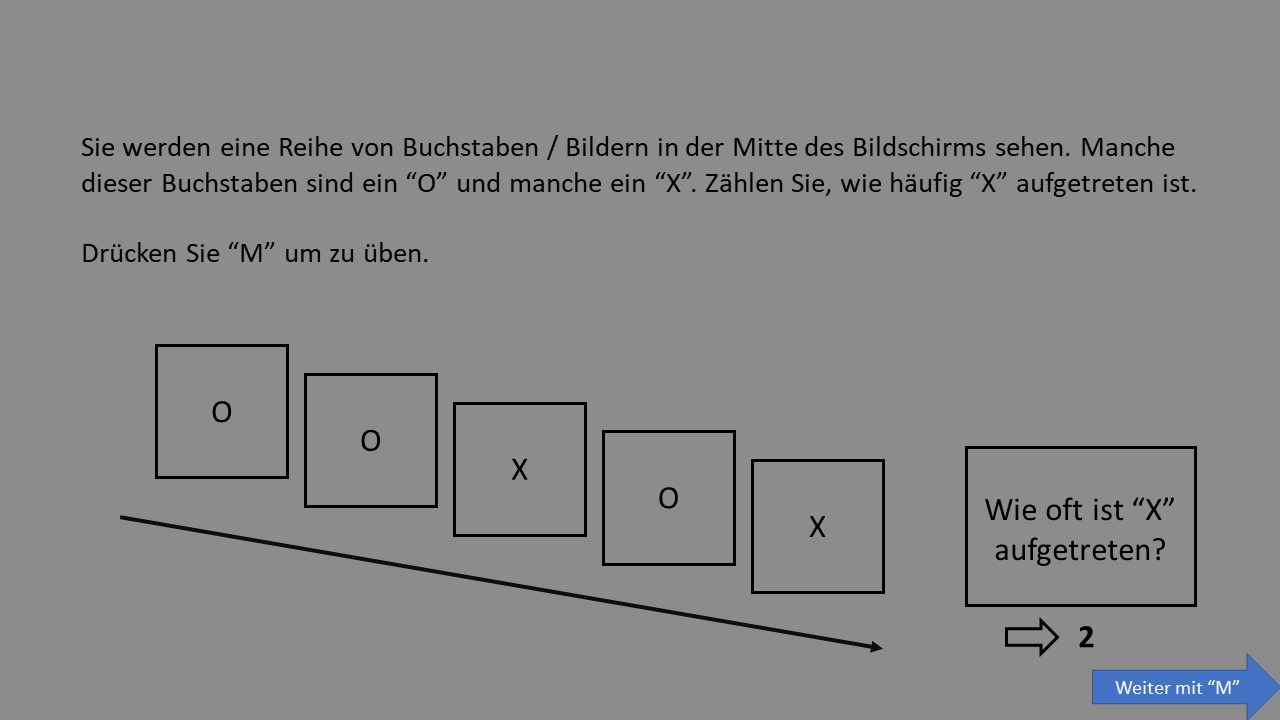
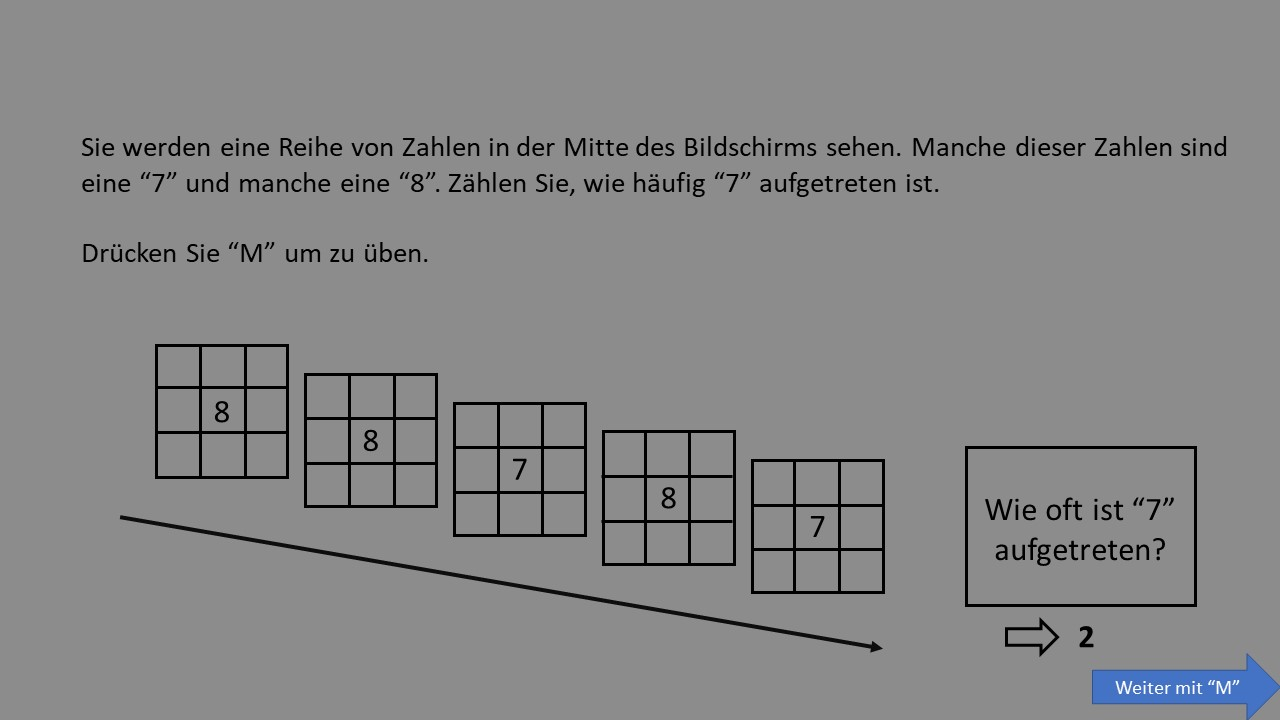
grid and numbers oddball

diff --git a/functions/ScreenGridEmpty.m b/functions/ScreenGridEmpty.m
@@ -1,0 +1,25 @@
+function ScreenGridEmpty(expinfo)
+
+
+    % vertikale Linien von unten nach oben 
+    Screen('DrawLine', expinfo.window ,expinfo.Colors.black , expinfo.xCenter-1.5*expinfo.GridSize, expinfo.yCenter - 1.5*expinfo.GridSize,expinfo.xCenter-1.5*expinfo.GridSize, expinfo.yCenter + 1.5*expinfo.GridSize ,2);
+    Screen('DrawLine', expinfo.window ,expinfo.Colors.black , expinfo.xCenter-0.5*expinfo.GridSize, expinfo.yCenter - 1.5*expinfo.GridSize, expinfo.xCenter-0.5*expinfo.GridSize,expinfo.yCenter + 1.5*expinfo.GridSize,2);
+    Screen('DrawLine', expinfo.window ,expinfo.Colors.black , expinfo.xCenter+0.5*expinfo.GridSize, expinfo.yCenter - 1.5*expinfo.GridSize,  expinfo.xCenter+0.5*expinfo.GridSize, expinfo.yCenter + 1.5*expinfo.GridSize ,2);
+    Screen('DrawLine', expinfo.window ,expinfo.Colors.black , expinfo.xCenter+1.5*expinfo.GridSize, expinfo.yCenter - 1.5*expinfo.GridSize,  expinfo.xCenter+1.5*expinfo.GridSize, expinfo.yCenter + 1.5*expinfo.GridSize ,2);
+    
+    % horizontale Linien von links nach rechts 
+    Screen('DrawLine', expinfo.window ,expinfo.Colors.black ,expinfo.xCenter-1.5*expinfo.GridSize, expinfo.yCenter - 1.5*expinfo.GridSize, expinfo.xCenter+1.5*expinfo.GridSize, expinfo.yCenter - 1.5*expinfo.GridSize ,2);
+    Screen('DrawLine', expinfo.window ,expinfo.Colors.black , expinfo.xCenter-1.5*expinfo.GridSize, expinfo.yCenter - 0.5*expinfo.GridSize, expinfo.xCenter+1.5*expinfo.GridSize,  expinfo.yCenter - 0.5*expinfo.GridSize ,2);
+    Screen('DrawLine', expinfo.window ,expinfo.Colors.black , expinfo.xCenter-1.5*expinfo.GridSize, expinfo.yCenter + 0.5*expinfo.GridSize, expinfo.xCenter+1.5*expinfo.GridSize,  expinfo.yCenter + 0.5*expinfo.GridSize ,2);
+    Screen('DrawLine', expinfo.window ,expinfo.Colors.black, expinfo.xCenter-1.5*expinfo.GridSize, expinfo.yCenter + 1.5*expinfo.GridSize, expinfo.xCenter+1.5*expinfo.GridSize, expinfo.yCenter + 1.5*expinfo.GridSize ,2);
+    
+    end
+    
+    % Screen('Flip', expinfo.window);
+    % Wait for a keystroke and then close the screen
+    % ListenChar(-1);
+    % KbStrokeWait;
+    % sca;
+    % ListenChar(); 
+    
+    

diff --git a/functions/TextCenteredOnPos.m b/functions/TextCenteredOnPos.m
@@ -45,6 +45,18 @@ Screen('glTranslate', expinfo.window, -x, -y, 0);
 % Draw text on screen and Flip Scree
 Screen('DrawText',expinfo.window, text, posX, posY, color);
 
+% vertikale Linien von unten nach oben 
+Screen('DrawLine', expinfo.window ,expinfo.Colors.black , expinfo.xCenter-1.5*expinfo.GridSize, expinfo.yCenter - 1.5*expinfo.GridSize,expinfo.xCenter-1.5*expinfo.GridSize, expinfo.yCenter + 1.5*expinfo.GridSize ,2);
+Screen('DrawLine', expinfo.window ,expinfo.Colors.black , expinfo.xCenter-0.5*expinfo.GridSize, expinfo.yCenter - 1.5*expinfo.GridSize, expinfo.xCenter-0.5*expinfo.GridSize,expinfo.yCenter + 1.5*expinfo.GridSize,2);
+Screen('DrawLine', expinfo.window ,expinfo.Colors.black , expinfo.xCenter+0.5*expinfo.GridSize, expinfo.yCenter - 1.5*expinfo.GridSize,  expinfo.xCenter+0.5*expinfo.GridSize, expinfo.yCenter + 1.5*expinfo.GridSize ,2);
+Screen('DrawLine', expinfo.window ,expinfo.Colors.black , expinfo.xCenter+1.5*expinfo.GridSize, expinfo.yCenter - 1.5*expinfo.GridSize,  expinfo.xCenter+1.5*expinfo.GridSize, expinfo.yCenter + 1.5*expinfo.GridSize ,2);
+
+% horizontale Linien von links nach rechts 
+Screen('DrawLine', expinfo.window ,expinfo.Colors.black ,expinfo.xCenter-1.5*expinfo.GridSize, expinfo.yCenter - 1.5*expinfo.GridSize, expinfo.xCenter+1.5*expinfo.GridSize, expinfo.yCenter - 1.5*expinfo.GridSize ,2);
+Screen('DrawLine', expinfo.window ,expinfo.Colors.black , expinfo.xCenter-1.5*expinfo.GridSize, expinfo.yCenter - 0.5*expinfo.GridSize, expinfo.xCenter+1.5*expinfo.GridSize,  expinfo.yCenter - 0.5*expinfo.GridSize ,2);
+Screen('DrawLine', expinfo.window ,expinfo.Colors.black , expinfo.xCenter-1.5*expinfo.GridSize, expinfo.yCenter + 0.5*expinfo.GridSize, expinfo.xCenter+1.5*expinfo.GridSize,  expinfo.yCenter + 0.5*expinfo.GridSize ,2);
+Screen('DrawLine', expinfo.window ,expinfo.Colors.black, expinfo.xCenter-1.5*expinfo.GridSize, expinfo.yCenter + 1.5*expinfo.GridSize, expinfo.xCenter+1.5*expinfo.GridSize, expinfo.yCenter + 1.5*expinfo.GridSize ,2);
+
 % Tell PTB no more drawing commands will be issued until the next flip
 Screen('DrawingFinished', expinfo.window);
 

diff --git a/functions/ScreenFlip.m b/functions/ScreenFlip.m
@@ -12,6 +12,18 @@ if ~exist('flip','var') || isempty(flip)
     flip = 0;
 end
 
+% vertikale Linien von unten nach oben 
+Screen('DrawLine', expinfo.window ,expinfo.Colors.black , expinfo.xCenter-1.5*expinfo.GridSize, expinfo.yCenter - 1.5*expinfo.GridSize,expinfo.xCenter-1.5*expinfo.GridSize, expinfo.yCenter + 1.5*expinfo.GridSize ,2);
+Screen('DrawLine', expinfo.window ,expinfo.Colors.black , expinfo.xCenter-0.5*expinfo.GridSize, expinfo.yCenter - 1.5*expinfo.GridSize, expinfo.xCenter-0.5*expinfo.GridSize,expinfo.yCenter + 1.5*expinfo.GridSize,2);
+Screen('DrawLine', expinfo.window ,expinfo.Colors.black , expinfo.xCenter+0.5*expinfo.GridSize, expinfo.yCenter - 1.5*expinfo.GridSize,  expinfo.xCenter+0.5*expinfo.GridSize, expinfo.yCenter + 1.5*expinfo.GridSize ,2);
+Screen('DrawLine', expinfo.window ,expinfo.Colors.black , expinfo.xCenter+1.5*expinfo.GridSize, expinfo.yCenter - 1.5*expinfo.GridSize,  expinfo.xCenter+1.5*expinfo.GridSize, expinfo.yCenter + 1.5*expinfo.GridSize ,2);
+
+% horizontale Linien von links nach rechts 
+Screen('DrawLine', expinfo.window ,expinfo.Colors.black ,expinfo.xCenter-1.5*expinfo.GridSize, expinfo.yCenter - 1.5*expinfo.GridSize, expinfo.xCenter+1.5*expinfo.GridSize, expinfo.yCenter - 1.5*expinfo.GridSize ,2);
+Screen('DrawLine', expinfo.window ,expinfo.Colors.black , expinfo.xCenter-1.5*expinfo.GridSize, expinfo.yCenter - 0.5*expinfo.GridSize, expinfo.xCenter+1.5*expinfo.GridSize,  expinfo.yCenter - 0.5*expinfo.GridSize ,2);
+Screen('DrawLine', expinfo.window ,expinfo.Colors.black , expinfo.xCenter-1.5*expinfo.GridSize, expinfo.yCenter + 0.5*expinfo.GridSize, expinfo.xCenter+1.5*expinfo.GridSize,  expinfo.yCenter + 0.5*expinfo.GridSize ,2);
+Screen('DrawLine', expinfo.window ,expinfo.Colors.black, expinfo.xCenter-1.5*expinfo.GridSize, expinfo.yCenter + 1.5*expinfo.GridSize, expinfo.xCenter+1.5*expinfo.GridSize, expinfo.yCenter + 1.5*expinfo.GridSize ,2);
+
 %Screen('Flip',expinfo.window);
 if has_fixation
     Screen('DrawText', expinfo.window ,'+',expinfo.xCenter-0.25*expinfo.GridSize ,expinfo.yCenter-0.50*expinfo.GridSize, expinfo.Colors.black);

diff --git a/functions/clearScreen.m b/functions/clearScreen.m
@@ -10,6 +10,19 @@ end
 
 Screen('FillRect',expinfo.window,expinfo.Colors.bgColor);
 
+% vertikale Linien von unten nach oben 
+Screen('DrawLine', expinfo.window ,expinfo.Colors.black , expinfo.xCenter-1.5*expinfo.GridSize, expinfo.yCenter - 1.5*expinfo.GridSize,expinfo.xCenter-1.5*expinfo.GridSize, expinfo.yCenter + 1.5*expinfo.GridSize ,2);
+Screen('DrawLine', expinfo.window ,expinfo.Colors.black , expinfo.xCenter-0.5*expinfo.GridSize, expinfo.yCenter - 1.5*expinfo.GridSize, expinfo.xCenter-0.5*expinfo.GridSize,expinfo.yCenter + 1.5*expinfo.GridSize,2);
+Screen('DrawLine', expinfo.window ,expinfo.Colors.black , expinfo.xCenter+0.5*expinfo.GridSize, expinfo.yCenter - 1.5*expinfo.GridSize,  expinfo.xCenter+0.5*expinfo.GridSize, expinfo.yCenter + 1.5*expinfo.GridSize ,2);
+Screen('DrawLine', expinfo.window ,expinfo.Colors.black , expinfo.xCenter+1.5*expinfo.GridSize, expinfo.yCenter - 1.5*expinfo.GridSize,  expinfo.xCenter+1.5*expinfo.GridSize, expinfo.yCenter + 1.5*expinfo.GridSize ,2);
+
+% horizontale Linien von links nach rechts 
+Screen('DrawLine', expinfo.window ,expinfo.Colors.black ,expinfo.xCenter-1.5*expinfo.GridSize, expinfo.yCenter - 1.5*expinfo.GridSize, expinfo.xCenter+1.5*expinfo.GridSize, expinfo.yCenter - 1.5*expinfo.GridSize ,2);
+Screen('DrawLine', expinfo.window ,expinfo.Colors.black , expinfo.xCenter-1.5*expinfo.GridSize, expinfo.yCenter - 0.5*expinfo.GridSize, expinfo.xCenter+1.5*expinfo.GridSize,  expinfo.yCenter - 0.5*expinfo.GridSize ,2);
+Screen('DrawLine', expinfo.window ,expinfo.Colors.black , expinfo.xCenter-1.5*expinfo.GridSize, expinfo.yCenter + 0.5*expinfo.GridSize, expinfo.xCenter+1.5*expinfo.GridSize,  expinfo.yCenter + 0.5*expinfo.GridSize ,2);
+Screen('DrawLine', expinfo.window ,expinfo.Colors.black, expinfo.xCenter-1.5*expinfo.GridSize, expinfo.yCenter + 1.5*expinfo.GridSize, expinfo.xCenter+1.5*expinfo.GridSize, expinfo.yCenter + 1.5*expinfo.GridSize ,2);
+
+
 % Tell PTB no more drawing commands will be issued until the next flip
 Screen('DrawingFinished', expinfo.window);
 

diff --git a/functions/getResponseNTargets.m b/functions/getResponseNTargets.m
@@ -31,7 +31,7 @@ function [ACC, response, correct, RT] = getResponseNTargets(expinfo, n_targets)
     else
         ACC = 0;
         setMarker(expinfo, expinfo.Marker.IncorrResponseOpenQuestion);
-        feedbackMessage = sprintf('Falsch. "X" wurde %d mal präsentiert.', n_targets);
+        feedbackMessage = sprintf('Falsch. "3" wurde %d mal präsentiert.', n_targets);
     end
 
     % Display feedback

diff --git a/functions/getExpSettings.m b/functions/getExpSettings.m
@@ -79,8 +79,8 @@ function expinfo = getExpSettings(expinfo)
     
     %% Defining trials to be conducted
     % Specify how many trials should be conducted
-    expinfo.TargetStim = 'x';
-    expinfo.NonTargetStim = 'o';
+    expinfo.TargetStim = '3';
+    expinfo.NonTargetStim = '4';
     expinfo.targetProbability = 0.2;
 
     %% Colors

diff --git a/functions/DisplayStandardTrial.m b/functions/DisplayStandardTrial.m
@@ -6,6 +6,7 @@ end
 
 %% Trial Procedure
 is_target = Trial(expTrial).isTarget;
+
 if is_target
     Trial(expTrial).time_ITI = ScreenFlip(expinfo,[],expinfo.Marker.ITITarget, 0,0);
 else
